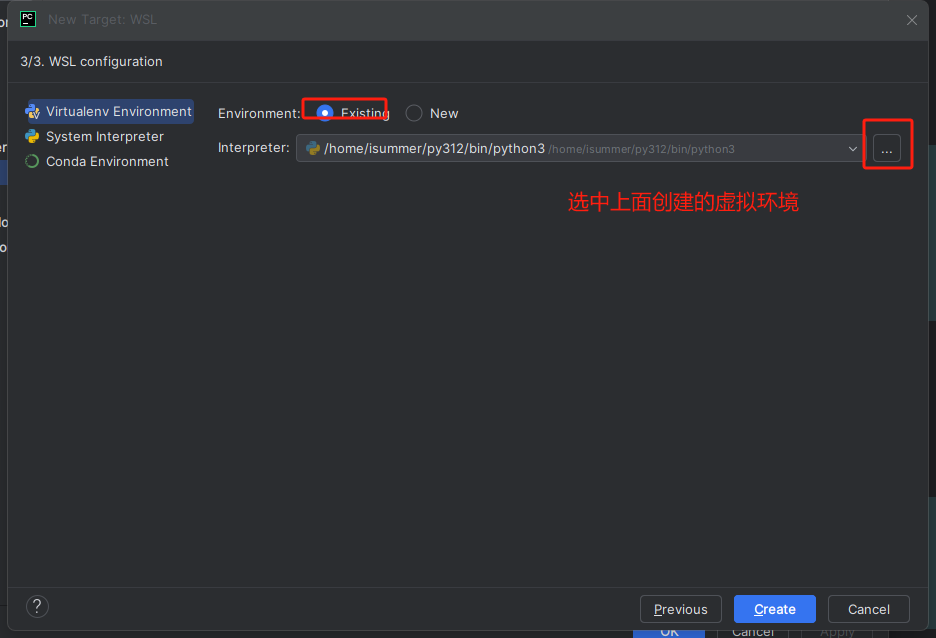
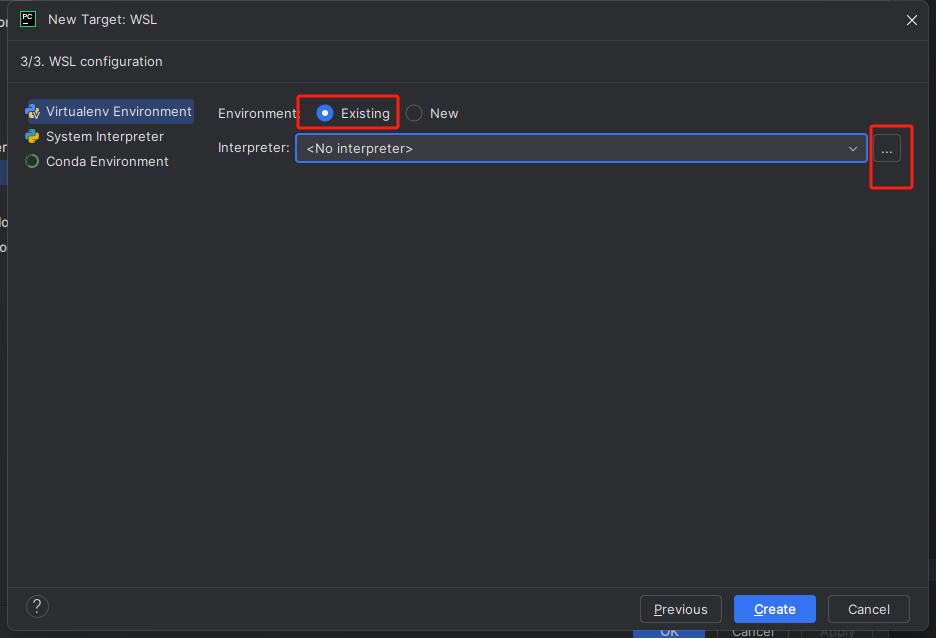
perf: 优化wsl下，ubuntu使用Python3.13环境

diff --git a/devguidelines/windows.md b/devguidelines/windows.md
@@ -95,7 +95,8 @@ systemd=true
 ## 5.安装Python环境
 
 ```shell
-apt install python3.12 python3.12-dev pkg-config libmariadb-dev gettext curl make g++ -y
+add-apt-repository ppa:deadsnakes/ppa -y
+apt install python3.13 python3.13-venv python3.13-dev pkg-config libmariadb-dev gettext curl make g++ -y
 ```
 
 ## 6.创建虚拟环境，使用普通用户，上面的操作都是root用户
@@ -103,7 +104,7 @@ apt install python3.12 python3.12-dev pkg-config libmariadb-dev gettext curl mak
 ```shell
 exit # 退出root用户
 cd   # 切换到家目录
-python3.12 -m venv py312
+python3.13 -m venv py313
 ```
 
 #### 切记，上面的操作都在Windows的子系统中操作，下面的操作在编辑器中操作
@@ -133,7 +134,7 @@ wsl -d Ubuntu
 
 ```shell
 cd
-source py312/bin/activate
+source py313/bin/activate
 cd /mnt/w/sources/xadmin-server/
 ```
 
@@ -192,6 +193,8 @@ python -m celery -A server flower -logging=info --url_prefix=api/flower --auto_r
 ![img_8.png](img_8.png)
 ![img_9.png](img_9.png)
 ![img_10.png](img_10.png)
+![img_14.png](img_14.png)
+![img_15.png](img_15.png)
 ![img_11.png](img_11.png)
 ![img_12.png](img_12.png)
 
